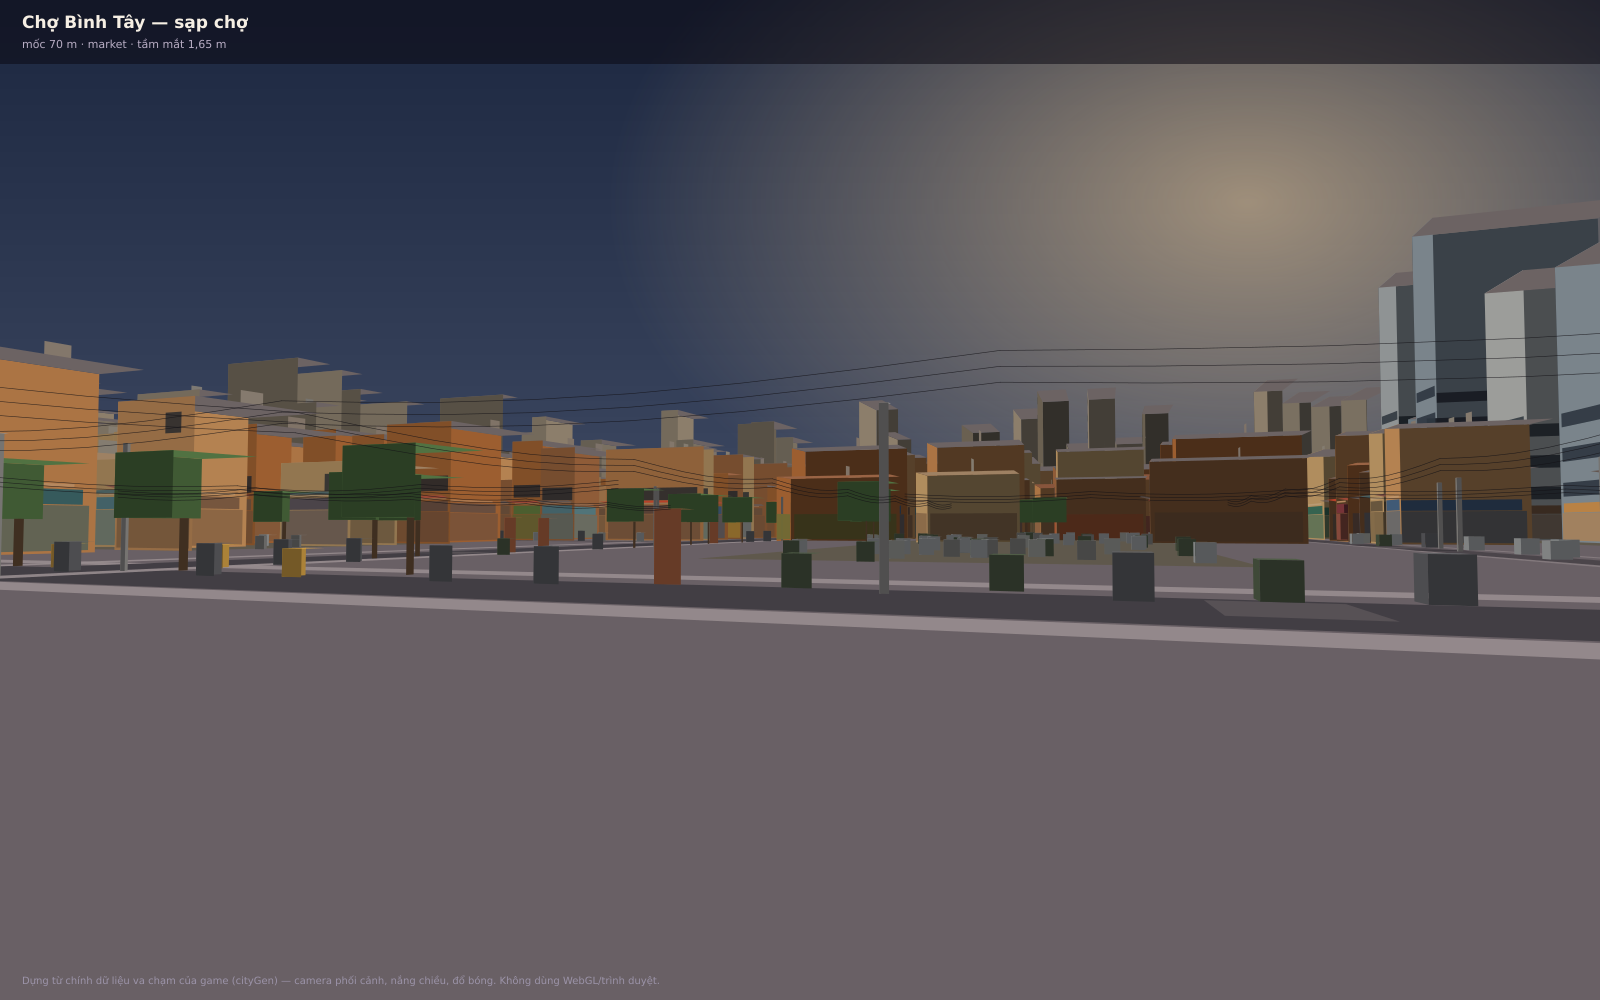
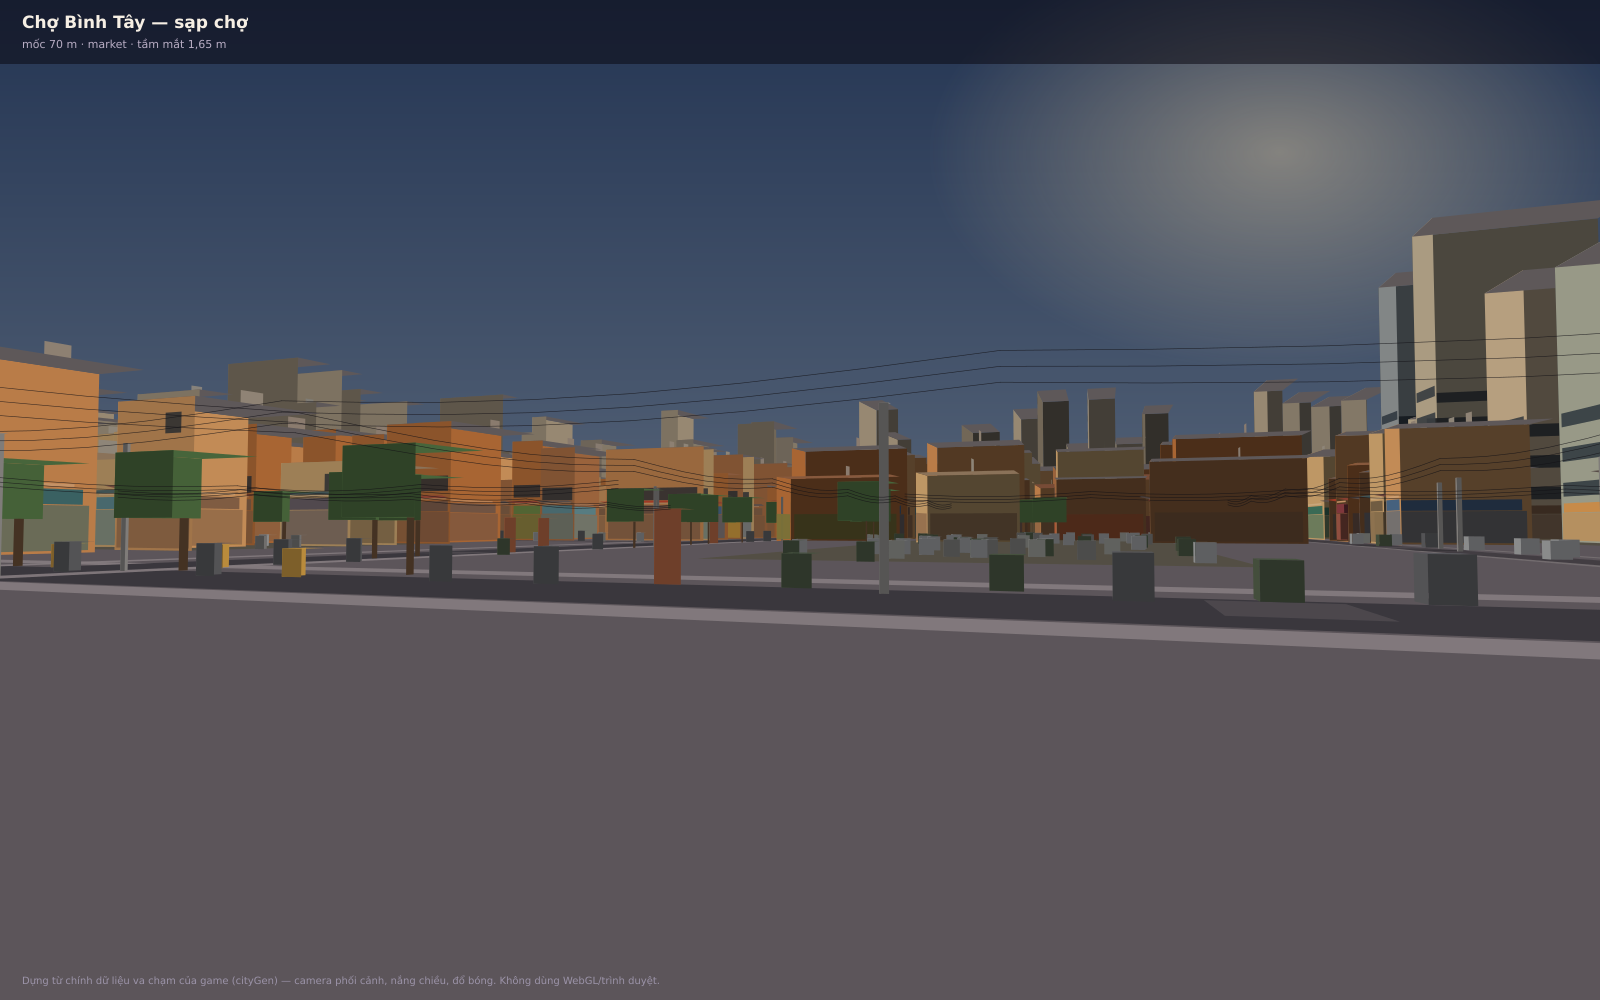
fix(city-render): mặt đứng trên cao, bóng cắt vào khung, trời và bảng màu tháp
Ảnh axon trước đây là những tảng thạch cao: nhánh `aerial` bỏ qua toàn bộ chi tiết
mặt đứng, và cổng khoảng cách `d < 1100` luôn sai (camera axon ở xa hơn) nên kể cả
khi thêm chi tiết thì cũng không mặt nào được vẽ — đồng thời che mất lỗi dùng biến
`along` trước khi khai báo. Nay:

- tháp ≥9 tầng có dải kính dọc, nhà 3–8 tầng có dải tầng ngang; mái cao có sân
  thượng/parapet thụt vào — nhìn từ trên đọc ra khối nhà chứ không phải hộp.
- bóng đổ bị CẮT vào khung đất: nắng chiều thấp làm bóng tháp 461 m dài hàng trăm
  mét và chúng từng nằm lơ lửng ngoài đế như mảng đen rơi giữa trời.
- khí quyển 30 % xám-lạnh → 14 % ấm; bảng màu du lịch/văn phòng bớt xanh-xám đơn
  điệu (thêm bê tông kem, kính xanh rêu); trời sáng hơn, quầng mặt trời nhỏ lại.
- nhãn trên cao không đè nhau nữa (giữ nhãn lớn, đẩy nhãn nhỏ, không được thì bỏ).

6 ảnh render lại; số đo hình học không đổi (4.350 toà, 0,4871 km²).

Changed region(s): [[0.5, 0.062, 1.0, 0.527]]

diff --git a/apps/game/scripts/city-render.ts b/apps/game/scripts/city-render.ts
@@ -44,8 +44,8 @@ const mix = (a: RGB, b: RGB, t: number): RGB => [a[0] + (b[0] - a[0]) * t, a[1] 
 const WALL: Record<string, string[]> = {
   residential: ["#c8a878", "#d8c39a", "#b98d63", "#cbb492", "#9fb7a4", "#b7a9bd", "#d9b7a0"],
   market: ["#c98f5a", "#b7743f", "#d3a06b", "#a8724a", "#cfae7d"],
-  tourist: ["#8fa3b8", "#a8b6c4", "#7d93a8", "#b7c2cc"],
-  corporate: ["#7d8a99", "#5f6b7a", "#93a0ad", "#6b7684"],
+  tourist: ["#9aa8b4", "#b9b2a0", "#8d9aa6", "#c6b79e", "#a5b0a8"],
+  corporate: ["#8b8f96", "#6f7a86", "#a19c92", "#7b828c", "#8d9aa0"],
   construction: ["#8f8a80", "#a49c8e", "#7c766c"],
   park: ["#9aa88f", "#b3b49a"],
 };
@@ -59,7 +59,7 @@ const SHOP: Record<string, string> = {
 };
 
 const sun = (() => {
-  const v: RGB = [0.42, 0.66, -0.62]; // nắng chiều từ đông-bắc, hơi thấp cho bóng dài
+  const v: RGB = [0.46, 0.46, -0.66]; // nắng chiều thấp: bóng dài gấp ~1,4 lần chiều cao toà
   const l = Math.hypot(...v);
   return [v[0] / l, v[1] / l, v[2] / l] as RGB;
 })();
@@ -151,8 +151,17 @@ const buildScene = (cam: Camera, world: { aerial: boolean }) => {
   };
   const push = (world3: RGB[], color: RGB, normal: RGB, opts: { opacity?: number; stroke?: string; width?: number } = {}) => pushInto(faces, world3, color, normal, opts);
   const pushGround = (world3: RGB[], color: RGB, normal: RGB, opts: { opacity?: number } = {}) => pushInto(ground, world3, color, normal, opts);
+  // Bóng phải bị CẮT vào khung đất. Nắng chiều thấp làm bóng của tháp 461 m dài hàng trăm mét, và
+  // trước khi cắt chúng nằm lơ lửng ngoài đế thành phố như những mảng đen rơi giữa trời.
   const pushShadow = (world3: RGB[]) => {
-    const proj = P.project(world3);
+    const xs = world3.map((p) => p[0]);
+    const zs = world3.map((p) => p[2]);
+    const x0 = Math.max(F.x0, Math.min(...xs));
+    const x1 = Math.min(F.x1, Math.max(...xs));
+    const z0 = Math.max(F.z0, Math.min(...zs));
+    const z1 = Math.min(F.z1, Math.max(...zs));
+    if (x1 - x0 < 0.2 || z1 - z0 < 0.2) return;
+    const proj = P.project([[x0, 0.01, z0], [x1, 0.01, z0], [x1, 0.01, z1], [x0, 0.01, z1]]);
     if (proj) shadows.push({ pts: proj.pts, fill: "#0b0a12", depth: 0 });
   };
   const dist = (x: number, z: number) => Math.hypot(x - cam.x, z - cam.z);
@@ -170,7 +179,7 @@ const buildScene = (cam: Camera, world: { aerial: boolean }) => {
     { x0: F.x0 - m, x1: F.x1 + m, z0: F.z1, z1: F.z1 + m },
     { x0: F.x0 - m, x1: F.x0, z0: F.z0, z1: F.z1 },
     { x0: F.x1, x1: F.x1 + m, z0: F.z0, z1: F.z1 },
-  ]) pushGround(q(band, -0.4), hex2rgb("#15141b"), [0, 1, 0]);
+  ]) pushGround(q(band, -0.4), hex2rgb("#26242e"), [0, 1, 0]);
 
   // Nước
   for (const w of city.water) pushGround(q(w, 0.06), hex2rgb("#12414d"), [0, 1, 0], { opacity: 0.96 });
@@ -269,7 +278,9 @@ const buildScene = (cam: Camera, world: { aerial: boolean }) => {
       ]);
     }
 
-    const atm = (c: RGB) => mix(c, hex2rgb("#4a5568"), Math.min(0.30, Math.max(0, (d - 320) / 1400) * 0.30));
+    // Khí quyển nhẹ và ấm: bản cũ trộn tới 30 % xám-lạnh (#4a5568) nên cả thành phố ra màu thạch
+    // cao xanh xám — mất sạch chất Sài Gòn (vàng đất, ngói, tường vôi).
+    const atm = (c: RGB) => mix(c, hex2rgb("#6e6672"), Math.min(0.14, Math.max(0, (d - 380) / 1500) * 0.14));
 
     // Bốn mặt tường: chỉ vẽ mặt hướng về camera (pháp tuyến · hướng nhìn < 0)
     const walls: Array<{ n: RGB; quad: RGB[] }> = [
@@ -283,10 +294,41 @@ const buildScene = (cam: Camera, world: { aerial: boolean }) => {
       const facing = wall.n[0] * toCam[0] + wall.n[1] * toCam[1] + wall.n[2] * toCam[2] < 0;
       if (!facing) continue;
       push(wall.quad, atm(base), wall.n);
-      if (world.aerial) continue;
+      const along = wall.n[0] === 0 ? w : dd;
+      if (world.aerial) {
+        // Ảnh trên cao từng không có một chi tiết mặt đứng nào: tháp 30 tầng và nhà kho đọc ra
+        // giống nhau — những tảng thạch cao. Nay: tháp có dải kính dọc, nhà nhiều tầng có dải tầng.
+        if (d < 2600 && along > 2.4 && h > 6) {
+          const floorsHere = Math.max(1, Math.round(h / 3.3));
+          const isXw = wall.n[0] !== 0;
+          const planeW = isXw ? (wall.n[0] > 0 ? b.x1 : b.x0) : (wall.n[2] > 0 ? b.z1 : b.z0);
+          const ow = 0.05;
+          const s0w = isXw ? b.z0 : b.x0;
+          const seg = (t0: number, t1: number, y0: number, y1: number): RGB[] => {
+            const p0 = s0w + along * t0;
+            const p1 = s0w + along * t1;
+            return isXw
+              ? [[planeW + ow, y0, p0], [planeW + ow, y0, p1], [planeW + ow, y1, p1], [planeW + ow, y1, p0]]
+              : [[p0, y0, planeW + ow], [p1, y0, planeW + ow], [p1, y1, planeW + ow], [p0, y1, planeW + ow]];
+          };
+          if (floorsHere >= 9) {
+            const strips = Math.max(2, Math.min(5, Math.round(along / 5)));
+            for (let i = 0; i < strips; i += 1) {
+              const t0 = 0.08 + (i / strips) * 0.84;
+              push(seg(t0, t0 + (0.84 / strips) * 0.55, h * 0.07, h * 0.95), mix(GLASS, base, 0.45), wall.n, { opacity: 0.8 });
+            }
+          } else if (floorsHere >= 3) {
+            const bands = Math.min(5, floorsHere - 1);
+            for (let i = 1; i <= bands; i += 1) {
+              const y = (h * i) / (bands + 1);
+              push(seg(0.07, 0.93, y, y + Math.min(0.75, h * 0.045)), mix(base, hex2rgb("#2b2a33"), 0.45), wall.n, { opacity: 0.62 });
+            }
+          }
+        }
+        continue;
+      }
       // Chi tiết tầng chỉ cho nhà gần: ban công, dải cửa kính, tấm biển hiệu.
       if (d > 190) continue;
-      const along = wall.n[0] === 0 ? w : dd;
       const isX = wall.n[0] !== 0;
       const plane = isX ? (wall.n[0] > 0 ? b.x1 : b.x0) : (wall.n[2] > 0 ? b.z1 : b.z0);
       const o = 0.04 * (wall.n[0] + wall.n[2]);
@@ -344,6 +386,15 @@ const buildScene = (cam: Camera, world: { aerial: boolean }) => {
 
     // Mái
     push([[b.x0, h, b.z0], [b.x1, h, b.z0], [b.x1, h, b.z1], [b.x0, h, b.z1]], atm(roofC), [0, 1, 0]);
+    // Sân thượng: một hình chữ nhật thụt vào, đọc ra gờ mái/parapet khi nhìn từ trên.
+    if (world.aerial && h > 11 && w > 6 && dd > 6) {
+      const inx = Math.min(1.1, w * 0.1);
+      const inz = Math.min(1.1, dd * 0.1);
+      push([
+        [b.x0 + inx, h + 0.03, b.z0 + inz], [b.x1 - inx, h + 0.03, b.z0 + inz],
+        [b.x1 - inx, h + 0.03, b.z1 - inz], [b.x0 + inx, h + 0.03, b.z1 - inz],
+      ], mix(atm(roofC), hex2rgb("#20202a"), 0.28), [0, 1, 0], { opacity: 0.9 });
+    }
     // Bồn nước trên mái — chi tiết nhìn từ trên cao, rất Sài Gòn
     if (!b.anchor && b.floors >= 2 && b.floors <= 6 && w > 3 && dd > 3 && (!world.aerial ? d < 160 : d < 420)) {
       const cx = b.x0 + w * 0.28;
@@ -453,6 +504,32 @@ const buildScene = (cam: Camera, world: { aerial: boolean }) => {
     }
   }
 
+  // Nhãn đè nhau: giữ nhãn lớn, đẩy nhãn nhỏ xuống vài bước, không được thì bỏ. Ảnh axon từng có
+  // "Chợ Bến Thành", "Ga Metro Bến Thành", "Phường Bến Thành" chồng lên nhau ở giữa khung.
+  {
+    const placed: Array<{ x0: number; x1: number; y0: number; y1: number }> = [];
+    const kept: typeof texts = [];
+    for (const t of texts.slice().sort((p, q) => q.size - p.size)) {
+      const wText = t.text.length * t.size * 0.56;
+      let ok = false;
+      for (let attempt = 0; attempt < 4 && !ok; attempt += 1) {
+        const y = t.y + attempt * t.size * 1.35;
+        const box = {
+          x0: t.anchor === "middle" ? t.x - wText / 2 : t.x,
+          x1: t.anchor === "middle" ? t.x + wText / 2 : t.x + wText,
+          y0: y - t.size,
+          y1: y + t.size * 0.3,
+        };
+        if (!placed.some((p) => box.x0 < p.x1 && box.x1 > p.x0 && box.y0 < p.y1 && box.y1 > p.y0)) {
+          placed.push(box);
+          kept.push({ ...t, y });
+          ok = true;
+        }
+      }
+    }
+    texts.length = 0;
+    texts.push(...kept);
+  }
   return { faces, ground, shadows, texts };
 };
 
@@ -662,11 +739,11 @@ const svgFor = (cam: Camera, scene: { faces: Face[]; ground: Face[]; shadows: Fa
   out.push(`<svg xmlns="http://www.w3.org/2000/svg" width="${cam.w}" height="${cam.h}" viewBox="0 0 ${cam.w} ${cam.h}" font-family="ui-sans-serif, system-ui, sans-serif">`);
   out.push(`<defs>
     <linearGradient id="sky" x1="0" y1="0" x2="0" y2="1">
-      <stop offset="0" stop-color="#1c2740"/><stop offset="0.55" stop-color="#3f4a63"/>
-      <stop offset="0.82" stop-color="#7e7286"/><stop offset="1" stop-color="#a98a7a"/>
+      <stop offset="0" stop-color="#243553"/><stop offset="0.55" stop-color="#566478"/>
+      <stop offset="0.82" stop-color="#9b8b8c"/><stop offset="1" stop-color="#c8a68c"/>
     </linearGradient>
-    <radialGradient id="sun" cx="0.78" cy="0.2" r="0.4">
-      <stop offset="0" stop-color="#ffd9a0" stop-opacity="0.55"/><stop offset="1" stop-color="#ffd9a0" stop-opacity="0"/>
+    <radialGradient id="sun" cx="0.80" cy="0.15" r="0.22">
+      <stop offset="0" stop-color="#ffe3b0" stop-opacity="0.40"/><stop offset="1" stop-color="#ffe3b0" stop-opacity="0"/>
     </radialGradient>
   </defs>`);
   out.push(`<rect width="${cam.w}" height="${cam.h}" fill="url(#sky)"/>`);
@@ -681,7 +758,7 @@ const svgFor = (cam: Camera, scene: { faces: Face[]; ground: Face[]; shadows: Fa
   const shadows = (scene.shadows as Face[]).slice().sort((a, b) => a.depth - b.depth);
   if (shadows.length) {
     // Gom bóng vào MỘT nhóm có opacity: bóng chồng nhau không bị sẫm gấp đôi.
-    out.push(`<g fill="#100e18" opacity="0.46">`);
+    out.push(`<g fill="#100e18" opacity="0.52">`);
     for (const s of shadows) out.push(`<polygon points="${s.pts.map(([x, y]) => `${x.toFixed(1)},${y.toFixed(1)}`).join(" ")}"/>`);
     out.push(`</g>`);
   }
